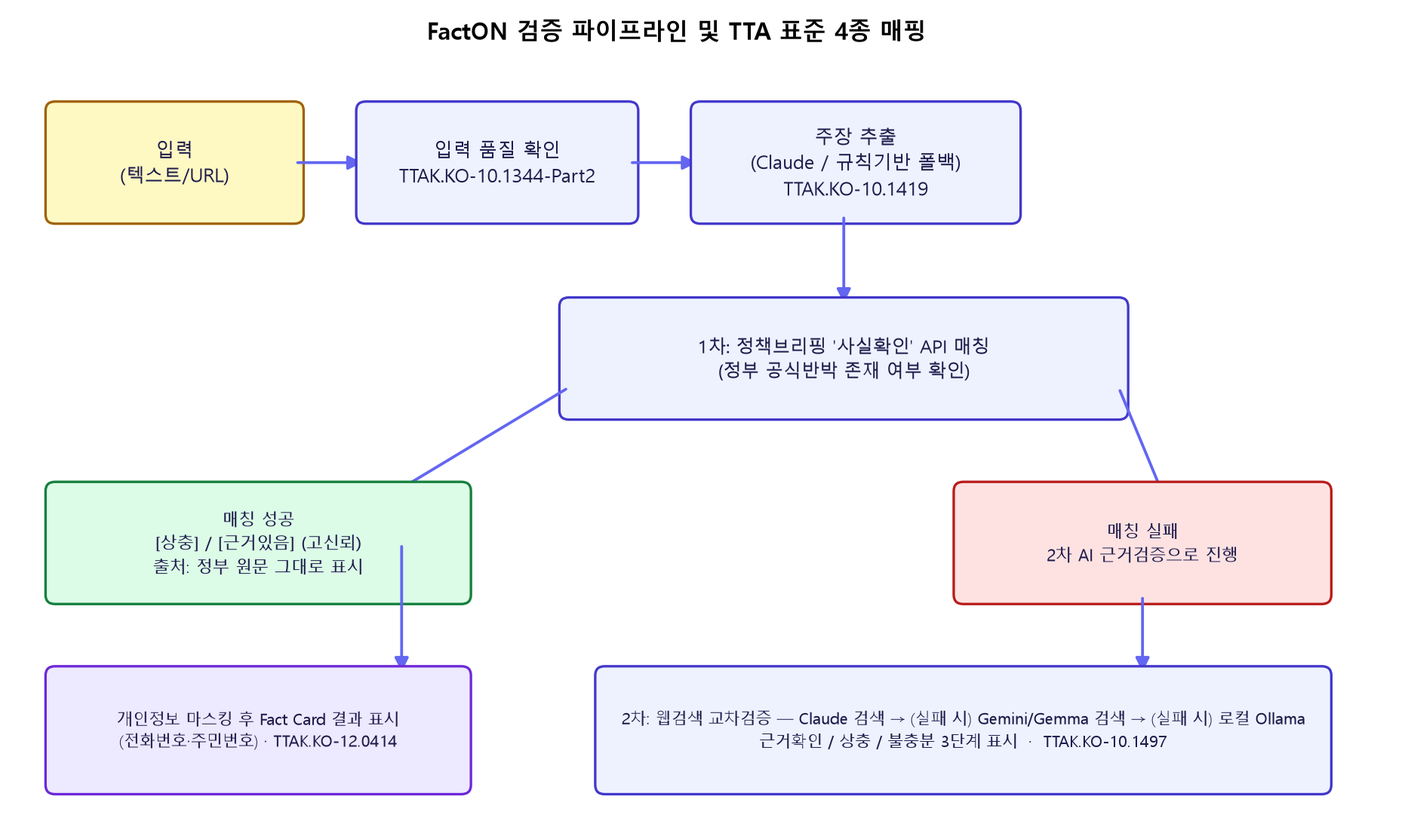
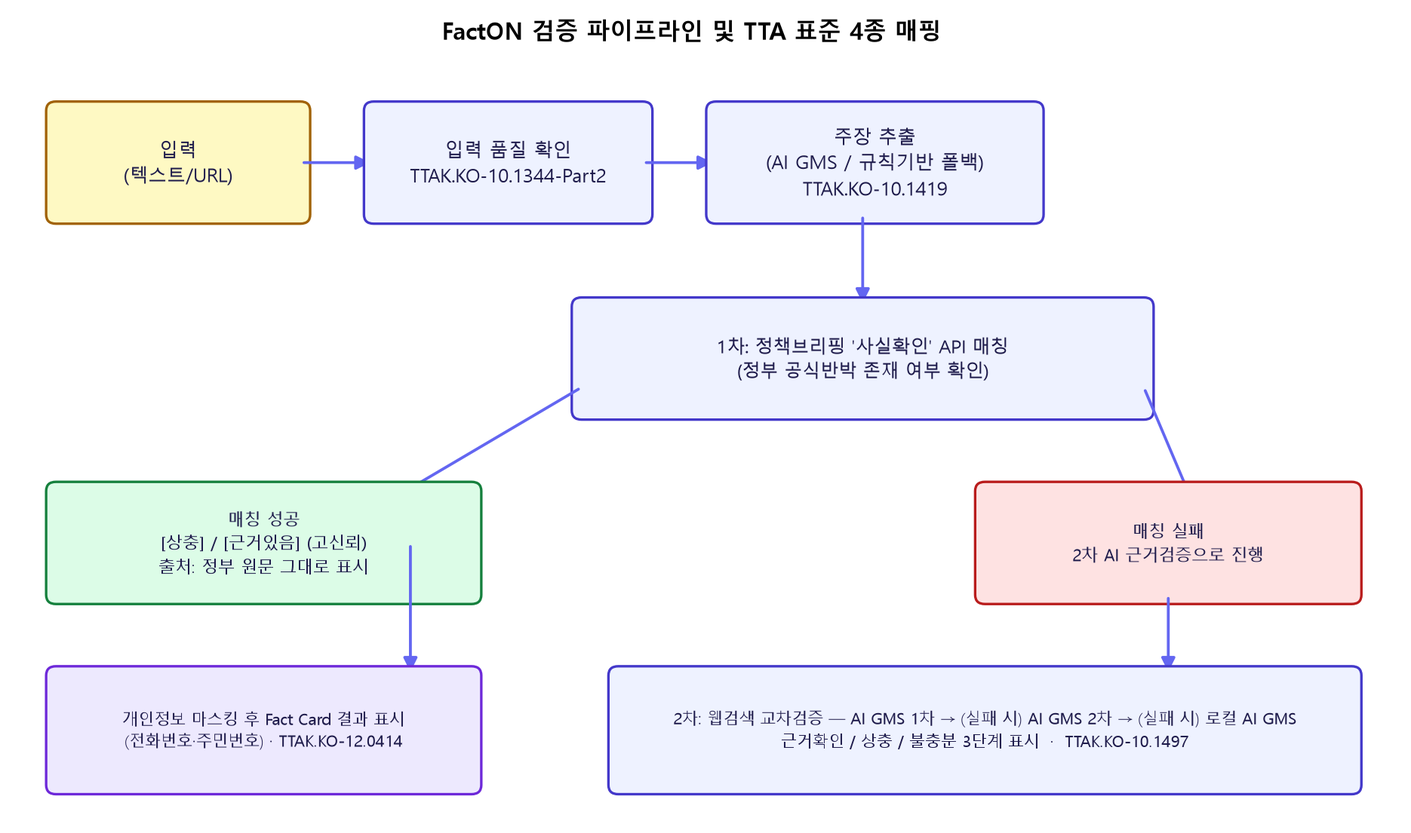
docs: 벤더명 대신 AI GMS로 표기 통일 (공모전 제출용)
README, 기획서 생성 스크립트/다이어그램, 진단 메시지·주석에서 특정 AI
벤더명을 지우고 'AI GMS'로 일반화. 파일명·함수명·env 변수명·실제 모델
ID 문자열은 동작에 필요해 그대로 유지.

diff --git a/lib/evidence/verifyWithGeminiSearch.ts b/lib/evidence/verifyWithGeminiSearch.ts
@@ -7,7 +7,7 @@ export interface GeminiVerificationAttempt { result?: EvidenceResult; diagnostic
 export async function verifyWithGeminiSearch(claim: Claim, documentText: string): Promise<GeminiVerificationAttempt> {
   const apiKey = process.env.GEMINI_API_KEY;
   const model = process.env.GEMINI_MODEL || "gemma-4-26b-a4b-it";
-  if (!apiKey) return { diagnostic: { stage: "gemini_search", status: "unavailable", message: "Gemini API 키가 없어 Google 검색 기반 검증을 실행하지 못했습니다." } };
+  if (!apiKey) return { diagnostic: { stage: "gemini_search", status: "unavailable", message: "AI GMS API 키가 없어 Google 검색 기반 검증을 실행하지 못했습니다." } };
   try {
     const response = await fetch(`https://generativelanguage.googleapis.com/v1beta/models/${encodeURIComponent(model)}:generateContent?key=${encodeURIComponent(apiKey)}`, {
       method: "POST", headers: { "Content-Type": "application/json" }, signal: AbortSignal.timeout(8000),
@@ -25,12 +25,12 @@ ${claim.text}
 형식: {"assessment":"supported|conflict|insufficient","summary":"근거 비교 결과","problematicPart":"문제 표현 또는 빈 문자열","correction":"교정 문장 또는 빈 문자열"}` }] }], tools: [{ google_search: {} }], generationConfig: { temperature: 0.1, maxOutputTokens: 768 } }),
     });
     const data = await response.json() as GeminiResponse;
-    if (!response.ok) throw new Error(data.error?.message || `Gemini HTTP ${response.status}`);
+    if (!response.ok) throw new Error(data.error?.message || `AI GMS HTTP ${response.status}`);
     const candidate = data.candidates?.[0]; const raw = candidate?.content?.parts?.map(part => part.text || "").join("\n") || ""; const payload = parsePayload(raw); const assessment = normalize(payload.assessment); const sources = extractSources(candidate?.groundingMetadata?.groundingChunks || []);
-    if (assessment === "insufficient") return { diagnostic: { stage: "gemini_search", status: "no_result", message: "Gemma Google 검색은 완료됐지만 직접적인 근거가 충분하지 않습니다." } };
-    if (!sources.length) return { diagnostic: { stage: "gemini_search", status: "failed", message: "Gemma가 판정은 반환했지만 검색 출처를 제공하지 않았습니다." } };
-    return { result: { status: "evidence", claim, assessment, summary: payload.summary?.trim() || "Google 검색 근거와 주장을 비교했습니다.", problematicPart: payload.problematicPart?.trim() || undefined, correction: payload.correction?.trim() || undefined, sources }, diagnostic: { stage: "gemini_search", status: "ok", message: `Gemma Google 검색에서 출처 ${sources.length}건을 확인했습니다.` } };
-  } catch (error) { return { diagnostic: { stage: "gemini_search", status: "failed", message: "Gemma Google 검색 호출에 실패했습니다.", detail: error instanceof Error ? error.message : String(error) } }; }
+    if (assessment === "insufficient") return { diagnostic: { stage: "gemini_search", status: "no_result", message: "AI GMS Google 검색은 완료됐지만 직접적인 근거가 충분하지 않습니다." } };
+    if (!sources.length) return { diagnostic: { stage: "gemini_search", status: "failed", message: "AI GMS가 판정은 반환했지만 검색 출처를 제공하지 않았습니다." } };
+    return { result: { status: "evidence", claim, assessment, summary: payload.summary?.trim() || "Google 검색 근거와 주장을 비교했습니다.", problematicPart: payload.problematicPart?.trim() || undefined, correction: payload.correction?.trim() || undefined, sources }, diagnostic: { stage: "gemini_search", status: "ok", message: `AI GMS Google 검색에서 출처 ${sources.length}건을 확인했습니다.` } };
+  } catch (error) { return { diagnostic: { stage: "gemini_search", status: "failed", message: "AI GMS Google 검색 호출에 실패했습니다.", detail: error instanceof Error ? error.message : String(error) } }; }
 }
 function extractSources(chunks: Array<{ web?: { uri?: string; title?: string } }>): EvidenceSource[] { const sources = chunks.flatMap(chunk => chunk.web?.uri ? [{ url: chunk.web.uri, title: chunk.web.title || chunk.web.uri }] : []); return [...new Map(sources.map(source => [source.url, source])).values()].slice(0, 8); }
 function parsePayload(raw: string): Payload { const match = raw.match(/\{[\s\S]*\}/); if (!match) return {}; try { return JSON.parse(match[0]) as Payload; } catch { return {}; } }

diff --git a/lib/evidence/verifyWithClaudeSearch.ts b/lib/evidence/verifyWithClaudeSearch.ts
@@ -8,16 +8,16 @@ export interface ClaudeVerificationAttempt { result?: EvidenceResult; diagnostic
 
 export async function verifyWithClaudeSearch(claim: Claim, documentText: string): Promise<ClaudeVerificationAttempt> {
   const client = getAnthropicClient();
-  if (!client) return { diagnostic: { stage: "claude_search", status: "unavailable", message: "Claude API 키가 없어 AI 웹 검색을 실행하지 못했습니다." } };
+  if (!client) return { diagnostic: { stage: "claude_search", status: "unavailable", message: "AI GMS API 키가 없어 웹 검색을 실행하지 못했습니다." } };
   const messages: Anthropic.MessageParam[] = [{ role: "user", content: `다음 한국어 주장을 웹 검색으로 검증하세요. 정부·공공기관·원문·공식 통계를 우선 검색하고 기사 제목만으로 판단하지 마세요. 시점, 조사 대상, 단위와 수치를 각각 비교하세요. 직접적인 근거가 부족하면 insufficient로 판정하세요. 마지막에는 반드시 JSON 객체만 출력하세요.\n\n문서 맥락:\n${documentText.slice(0,5000)}\n\n검증할 주장:\n${claim.text}\n\n형식: {"assessment":"supported|conflict|insufficient","summary":"근거 비교 결과","problematicPart":"틀리거나 과장된 구체적 표현 또는 빈 문자열","correction":"근거에 맞춘 문장 또는 빈 문자열"}` }];
   try {
     let response = await client.messages.create({ model: CLAUDE_MODEL, max_tokens: 2048, tools: [WEB_SEARCH_TOOL], messages });
     for (let turn=0;turn<3&&response.stop_reason==="pause_turn";turn++){messages.push({role:"assistant",content:response.content});response=await client.messages.create({model:CLAUDE_MODEL,max_tokens:2048,tools:[WEB_SEARCH_TOOL],messages});}
     const sources=extractSources(response.content); const blocks=response.content.filter(block=>block.type==="text"); const last=blocks.at(-1); const payload=last?.type==="text"?parsePayload(last.text):{}; const assessment=normalizeAssessment(payload.assessment);
-    if(assessment==="insufficient") return { diagnostic:{stage:"claude_search",status:"no_result",message:"Claude 검색은 정상 완료됐지만 직접적인 근거가 충분하지 않았습니다."} };
-    if(!sources.length) return { diagnostic:{stage:"claude_search",status:"failed",message:"Claude가 판정을 반환했지만 인용 가능한 검색 출처가 없었습니다."} };
-    return { result:{status:"evidence",claim,assessment,summary:payload.summary?.trim()||"검색 근거와 주장을 비교했습니다.",problematicPart:payload.problematicPart?.trim()||undefined,correction:payload.correction?.trim()||undefined,sources}, diagnostic:{stage:"claude_search",status:"ok",message:`Claude 웹 검색에서 출처 ${sources.length}건을 확인했습니다.`} };
-  } catch(error){ return { diagnostic:{stage:"claude_search",status:"failed",message:"Claude 웹 검색 호출에 실패했습니다.",detail:errorMessage(error)} }; }
+    if(assessment==="insufficient") return { diagnostic:{stage:"claude_search",status:"no_result",message:"AI GMS 검색은 정상 완료됐지만 직접적인 근거가 충분하지 않았습니다."} };
+    if(!sources.length) return { diagnostic:{stage:"claude_search",status:"failed",message:"AI GMS가 판정을 반환했지만 인용 가능한 검색 출처가 없었습니다."} };
+    return { result:{status:"evidence",claim,assessment,summary:payload.summary?.trim()||"검색 근거와 주장을 비교했습니다.",problematicPart:payload.problematicPart?.trim()||undefined,correction:payload.correction?.trim()||undefined,sources}, diagnostic:{stage:"claude_search",status:"ok",message:`AI GMS 웹 검색에서 출처 ${sources.length}건을 확인했습니다.`} };
+  } catch(error){ return { diagnostic:{stage:"claude_search",status:"failed",message:"AI GMS 웹 검색 호출에 실패했습니다.",detail:errorMessage(error)} }; }
 }
 function extractSources(content:Anthropic.ContentBlock[]):EvidenceSource[]{const sources:EvidenceSource[]=[];for(const block of content){if(block.type!=="web_search_tool_result"||!Array.isArray(block.content))continue;for(const item of block.content)sources.push({title:item.title,url:item.url});}return [...new Map(sources.map(source=>[source.url,source])).values()].slice(0,8);}
 function parsePayload(raw:string):Payload{const match=raw.match(/\{[\s\S]*\}/);if(!match)return{};try{return JSON.parse(match[0]) as Payload;}catch{return{};}}

diff --git a/lib/evidence/verifyWithGemmaEvidence.ts b/lib/evidence/verifyWithGemmaEvidence.ts
@@ -18,7 +18,7 @@ export async function verifyWithGemmaEvidence(claim: Claim, evidence: SearchEvid
   const apiKey = process.env.GEMINI_API_KEY;
   const model = process.env.GEMINI_MODEL || "gemma-4-26b-a4b-it";
   if (!apiKey || !model.startsWith("gemma-")) {
-    return { diagnostic: { stage: "gemma_analysis", status: "unavailable", message: "Gemma 판정 모델이 설정되지 않았습니다." } };
+    return { diagnostic: { stage: "gemma_analysis", status: "unavailable", message: "AI GMS 판정 모델이 설정되지 않았습니다." } };
   }
 
   const sources = evidence.slice(0, 6);
@@ -34,12 +34,12 @@ export async function verifyWithGemmaEvidence(claim: Claim, evidence: SearchEvid
       // 요약해 비교하는 훨씬 긴 프롬프트라 15초로는 자주 타임아웃됐다.
       signal: AbortSignal.timeout(30000),
       body: JSON.stringify({
-        contents: [{ parts: [{ text: `아래 검색 자료만 사용해 주장을 검증하세요. Gemma가 직접 검색했다고 말하지 마세요. 직접 근거가 부족하면 insufficient로 판정하세요. JSON만 출력하세요.\n\n주장:\n${claim.text}\n\n검색 자료:\n${sourceText}\n\n형식: {"assessment":"supported|conflict|insufficient","summary":"비교 결과","problematicPart":"문제 표현 또는 빈 문자열","correction":"교정 문장 또는 빈 문자열","sourceIndexes":[1,2]}` }] }],
+        contents: [{ parts: [{ text: `아래 검색 자료만 사용해 주장을 검증하세요. AI가 직접 검색했다고 말하지 마세요. 직접 근거가 부족하면 insufficient로 판정하세요. JSON만 출력하세요.\n\n주장:\n${claim.text}\n\n검색 자료:\n${sourceText}\n\n형식: {"assessment":"supported|conflict|insufficient","summary":"비교 결과","problematicPart":"문제 표현 또는 빈 문자열","correction":"교정 문장 또는 빈 문자열","sourceIndexes":[1,2]}` }] }],
         generationConfig: { temperature: 0.1, maxOutputTokens: 768 },
       }),
     });
     const data = await response.json() as { candidates?: Array<{ content?: { parts?: Array<{ text?: string }> } }>; error?: { message?: string } };
-    if (!response.ok) throw new Error(data.error?.message || `Gemma HTTP ${response.status}`);
+    if (!response.ok) throw new Error(data.error?.message || `AI GMS HTTP ${response.status}`);
     const raw = data.candidates?.[0]?.content?.parts?.map((part) => part.text || "").join("\n") || "";
     const payload = parsePayload(raw);
     const assessment = payload.assessment === "supported" || payload.assessment === "conflict" ? payload.assessment : "insufficient";
@@ -57,10 +57,10 @@ export async function verifyWithGemmaEvidence(claim: Claim, evidence: SearchEvid
         correction: assessment === "insufficient" ? undefined : payload.correction?.trim() || undefined,
         sources: visibleSources,
       },
-      diagnostic: { stage: "gemma_analysis", status: "ok", message: `Gemma가 외부 검색 자료 ${visibleSources.length}건을 비교했습니다.` },
+      diagnostic: { stage: "gemma_analysis", status: "ok", message: `AI GMS가 외부 검색 자료 ${visibleSources.length}건을 비교했습니다.` },
     };
   } catch (error) {
-    return { diagnostic: { stage: "gemma_analysis", status: "failed", message: "Gemma의 검색 자료 판정에 실패했습니다.", detail: error instanceof Error ? error.message : String(error) } };
+    return { diagnostic: { stage: "gemma_analysis", status: "failed", message: "AI GMS의 검색 자료 판정에 실패했습니다.", detail: error instanceof Error ? error.message : String(error) } };
   }
 }
 

diff --git a/lib/claims/extractClaims.ts b/lib/claims/extractClaims.ts
@@ -6,12 +6,12 @@ export interface ClaimExtractionResult { claims: Claim[]; diagnostic: PipelineDi
 
 export async function extractClaims(text: string): Promise<ClaimExtractionResult> {
   const client = getAnthropicClient();
-  if (!client) return { claims: extractClaimsHeuristic(text), diagnostic: { stage: "claim_extraction", status: "unavailable", message: "Claude API 키가 없어 규칙 기반으로 주장을 추출했습니다." } };
+  if (!client) return { claims: extractClaimsHeuristic(text), diagnostic: { stage: "claim_extraction", status: "unavailable", message: "AI GMS API 키가 없어 규칙 기반으로 주장을 추출했습니다." } };
   try {
     const claims = await extractClaimsWithClaude(client, text);
-    return { claims, diagnostic: { stage: "claim_extraction", status: "ok", message: "Claude가 검증 가능한 주장을 추출했습니다." } };
+    return { claims, diagnostic: { stage: "claim_extraction", status: "ok", message: "AI GMS가 검증 가능한 주장을 추출했습니다." } };
   } catch (error) {
-    return { claims: extractClaimsHeuristic(text), diagnostic: { stage: "claim_extraction", status: "failed", message: "Claude 주장 추출에 실패해 규칙 기반 분석으로 전환했습니다.", detail: errorMessage(error) } };
+    return { claims: extractClaimsHeuristic(text), diagnostic: { stage: "claim_extraction", status: "failed", message: "AI GMS 주장 추출에 실패해 규칙 기반 분석으로 전환했습니다.", detail: errorMessage(error) } };
   }
 }
 
@@ -23,9 +23,9 @@ async function extractClaimsWithClaude(client: Anthropic, text: string): Promise
     messages: [{ role: "user", content: text }],
   });
   const block = response.content.find(item => item.type === "text");
-  if (!block || block.type !== "text") throw new Error("Claude 응답에 텍스트가 없습니다.");
+  if (!block || block.type !== "text") throw new Error("AI GMS 응답에 텍스트가 없습니다.");
   const match = block.text.match(/\[[\s\S]*\]/);
-  if (!match) throw new Error("Claude 응답에서 JSON 배열을 찾지 못했습니다.");
+  if (!match) throw new Error("AI GMS 응답에서 JSON 배열을 찾지 못했습니다.");
   const parsed = JSON.parse(match[0]) as { text?: string }[];
   const claims = parsed.filter(item => item.text?.trim()).slice(0, 5).map((item, index) => ({ id: `claim-${index + 1}`, text: item.text!.trim() }));
   if (!claims.length) throw new Error("추출된 주장이 없습니다.");

diff --git a/components/FactCardError.tsx b/components/FactCardError.tsx
@@ -1,3 +1,3 @@
 import { VerificationErrorResult } from "@/lib/types";
-const stageNames={claim_extraction:"주장 추출",policy_api:"정책 API",claude_search:"Claude 검색",gemini_search:"Gemini 검색",gemma_analysis:"Gemma 판정",web_search:"웹 검색",local_ai:"판정 엔진"} as const;
+const stageNames={claim_extraction:"주장 추출",policy_api:"정책 API",claude_search:"AI GMS 검색(1차)",gemini_search:"AI GMS 검색(2차)",gemma_analysis:"AI GMS 판정(2차)",web_search:"웹 검색",local_ai:"판정 엔진"} as const;
 export default function FactCardError({result,index}:{result:VerificationErrorResult;index:number}){return <article className="result-card pipeline-error"><div className="result-topline"><span className="claim-number">CLAIM {String(index).padStart(2,"0")}</span><span className="result-status"><i>×</i>검증 오류</span></div><h3>“{result.claim.text}”</h3><div className="pipeline-error-box"><span>{stageNames[result.stage]}</span><strong>{result.title}</strong><p>{result.message}</p><small>{result.retryable?"잠시 후 다시 시도하거나 연결 상태를 확인해 주세요.":"입력 내용을 확인해 주세요."}</small></div></article>}

diff --git a/lib/match/matchClaims.ts b/lib/match/matchClaims.ts
@@ -11,7 +11,7 @@ export async function matchClaim(
   return matchClaimFallback(claim, candidates);
 }
 
-// Claude 키가 없을 때를 위한 단순 키워드 겹침 폴백 매칭.
+// AI GMS 키가 없을 때를 위한 단순 키워드 겹침 폴백 매칭.
 // "matched"로 뜨면 화면에 고신뢰(🔴/🟢)로 표시되므로 오탐 비용이 매우 크다 — 실측 결과
 // "모두/있는/것으로/나타났다"처럼 아무 기사에나 나오는 기능어만 겹쳐도 비율 임계값(0.3)을
 // 넘겨 전혀 무관한 정부 문서와 매칭되는 버그가 있었다(예: "역대 최고 인상폭에도... 반발"

diff --git a/docs/build_proposal.py b/docs/build_proposal.py
@@ -166,8 +166,8 @@ content_cell(table1.rows[3].cells[1], [
     "판정해 환각·정치적 편향이라는 또 다른 신뢰 문제를 만듭니다.",
     ("차별점: ", True),
     "FactON은 반대로 1차는 정부가 이미 반박한 사례와 매칭해 AI의 새 판정이 아닌 정부 "
-    "원문을 그대로 연결(고신뢰)하고, 매칭 실패 시에만 2차로 Claude\u2192Gemini/Gemma\u2192"
-    "로컬 Ollama 순차 폴백의 웹검색 교차검증을 거쳐 근거확인·상충·불충분 3단계로 "
+    "원문을 그대로 연결(고신뢰)하고, 매칭 실패 시에만 2차로 AI GMS 1차\u2192AI GMS 2차\u2192"
+    "로컬 AI GMS 순차 폴백의 웹검색 교차검증을 거쳐 근거확인·상충·불충분 3단계로 "
     "표시합니다. 근거 불충분 시 거짓으로 단정하지 않고 안전하게 보류합니다.",
     ("표준 조합의 새로움: ", True),
     "TTA 표준 4종을 입력품질\u2192주장·의미정확성\u2192신뢰성·설명가능성\u2192개인정보보호라는 "
@@ -251,27 +251,27 @@ set_col_widths(table2, [2.6, 15.4])
 
 label_cell(table2.rows[0].cells[0], "생성형 AI\n활용성")
 content_cell(table2.rows[0].cells[1], [
-    ("① Claude(claude-opus-5) \u2014 1차: ", True),
+    ("① AI GMS 1차 검증: ", True),
     "extractClaims.ts로 핵심 주장 1~5개를 추출하고, verifyWithClaudeSearch.ts는 "
     "web_search 도구로 정부·공공기관·원자료를 우선 검색해 수치·기관·시점 단위로 "
     "비교, 근거확인/상충/불충분을 판정합니다.",
-    ("② Gemini/Gemma(Google) \u2014 2차 폴백: ", True),
-    "Claude 실패(크레딧 소진·장애) 시 Google 검색 그라운딩 또는 검색결과 재판정으로 "
+    ("② AI GMS 2차 폴백: ", True),
+    "AI GMS 1차 실패(쿼터 소진·장애) 시 Google 검색 그라운딩 또는 검색결과 재판정으로 "
     "자동 전환됩니다(verifyWithGeminiSearch.ts, verifyWithGemmaEvidence.ts).",
-    ("③ 로컬 Ollama(qwen3:8b) \u2014 3차 폴백: ", True),
+    ("③ 로컬 AI GMS(경량 모델) \u2014 3차 폴백: ", True),
     "위 두 단계가 모두 실패해도 로컬 LLM이 근거를 비교·판정해 서비스 연속성을 "
     "보장합니다(verifyClaim.ts).",
     ("④ 개발 과정 활용: ", True),
-    "Claude Code로 요구사항 분석부터 구현, 실제 운영 버그(폴백 매칭 오탐, 타임아웃, "
-    "API 쿼터 초과) 진단·수정까지 전 과정을 수행했습니다. 개발 중 실제 Anthropic "
-    "크레딧 소진 상황에서 Gemini/Gemma\u2192Ollama로 자동 전환되는 것을 재현 검증했습니다.",
+    "생성형 AI 코딩 도구로 요구사항 분석부터 구현, 실제 운영 버그(폴백 매칭 오탐, 타임아웃, "
+    "API 쿼터 초과) 진단·수정까지 전 과정을 수행했습니다. 개발 중 실제 "
+    "API 쿼터 소진 상황에서 AI GMS 2차\u2192로컬 AI GMS로 자동 전환되는 것을 재현 검증했습니다.",
 ])
 
 label_cell(table2.rows[1].cells[0], "SW개발\n구현완성도·\n서비스가능성")
 content_cell(table2.rows[1].cells[1], [
     ("핵심기능: ", True),
     "1) 텍스트/URL\u2192주장 추출\u2192정책브리핑 \u2018사실확인\u2019 API 1차 매칭(실연동) "
-    "2) 매칭 실패 시 Claude\u2192Gemini/Gemma\u2192Ollama 웹검색 교차검증\u2192Fact Card 3단계 "
+    "2) 매칭 실패 시 AI GMS 1차\u2192AI GMS 2차\u2192로컬 AI GMS 웹검색 교차검증\u2192Fact Card 3단계 "
     "표시(문제구절·교정문장·원문링크) 3) 결과 공유(ShareCard)와 부가 화면(/how, "
     "/literacy 자가진단, /report 신고안내, /sources 출처 18종 디렉토리)",
     ("실제 작동: ", True),

diff --git a/docs/make_diagram.py b/docs/make_diagram.py
@@ -1,0 +1,58 @@
+"""FactON 검증 파이프라인 다이어그램 생성 스크립트.
+실행: python docs/make_diagram.py
+"""
+import matplotlib
+matplotlib.use("Agg")
+import matplotlib.pyplot as plt
+from matplotlib.patches import FancyBboxPatch, FancyArrowPatch
+
+plt.rcParams["font.family"] = "Malgun Gothic"
+plt.rcParams["axes.unicode_minus"] = False
+
+fig, ax = plt.subplots(figsize=(11, 6.5))
+ax.set_xlim(0, 11)
+ax.set_ylim(0, 6.5)
+ax.axis("off")
+
+def box(x, y, w, h, text, fc="#eef2ff", ec="#4338ca", fontsize=10.5, weight="normal"):
+    b = FancyBboxPatch((x, y), w, h, boxstyle="round,pad=0.08,rounding_size=0.08",
+                        linewidth=1.4, edgecolor=ec, facecolor=fc)
+    ax.add_patch(b)
+    ax.text(x + w/2, y + h/2, text, ha="center", va="center", fontsize=fontsize,
+             color="#1e1b4b", weight=weight, linespacing=1.4)
+
+def arrow(x1, y1, x2, y2, color="#6366f1"):
+    a = FancyArrowPatch((x1, y1), (x2, y2), arrowstyle="-|>", mutation_scale=16,
+                          linewidth=1.6, color=color)
+    ax.add_patch(a)
+
+# Row 1: input -> quality -> claim extraction
+box(0.3, 5.2, 2.0, 0.9, "입력\n(텍스트/URL)", fc="#fef9c3", ec="#a16207")
+arrow(2.3, 5.65, 2.9, 5.65)
+box(2.9, 5.2, 2.2, 0.9, "입력 품질 확인\nTTAK.KO-10.1344-Part2")
+arrow(5.1, 5.65, 5.7, 5.65)
+box(5.7, 5.2, 2.6, 0.9, "주장 추출\n(AI GMS / 규칙기반 폴백)\nTTAK.KO-10.1419")
+arrow(6.9, 5.2, 6.9, 4.4)
+
+# Row 2: 1st matching
+box(4.6, 3.5, 4.6, 0.9, "1차: 정책브리핑 '사실확인' API 매칭\n(정부 공식반박 존재 여부 확인)", fontsize=10)
+arrow(4.6, 3.7, 3.0, 2.7)
+arrow(9.2, 3.7, 9.6, 2.7)
+
+box(0.3, 1.9, 3.4, 0.9, "매칭 성공\n[상충] / [근거있음] (고신뢰)\n출처: 정부 원문 그대로 표시", fc="#dcfce7", ec="#15803d", fontsize=9.5)
+
+box(7.9, 1.9, 3.0, 0.9, "매칭 실패\n2차 AI 근거검증으로 진행", fc="#fee2e2", ec="#b91c1c", fontsize=9.5)
+arrow(9.4, 1.9, 9.4, 1.2)
+
+box(4.9, 0.25, 6.0, 0.95,
+    "2차: 웹검색 교차검증 — AI GMS 1차 → (실패 시) AI GMS 2차 → (실패 시) 로컬 AI GMS\n근거확인 / 상충 / 불충분 3단계 표시  ·  TTAK.KO-10.1497",
+    fontsize=9)
+
+arrow(3.2, 2.35, 3.2, 1.2)
+box(0.3, 0.25, 3.4, 0.95, "개인정보 마스킹 후 Fact Card 결과 표시\n(전화번호·주민번호) · TTAK.KO-12.0414", fc="#ede9fe", ec="#6d28d9", fontsize=9)
+
+ax.set_title("FactON 검증 파이프라인 및 TTA 표준 4종 매핑", fontsize=13, weight="bold", pad=14)
+
+fig.tight_layout()
+fig.savefig(r"C:\Users\SSAFY\Desktop\TTA\facton\docs\pipeline_diagram.png", dpi=170)
+print("saved")

diff --git a/README.md b/README.md
@@ -13,11 +13,11 @@
 ## 핵심 기능
 
 - **텍스트/URL 입력** — 문장을 그대로 붙여넣거나 뉴스 URL을 입력하면 본문을 자동 추출(Readability)
-- **주장 자동 추출** — Claude로 검증 가능한 핵심 주장 1~5개를 추출, 실패 시 규칙 기반 추출기로 폴백
+- **주장 자동 추출** — AI GMS로 검증 가능한 핵심 주장 1~5개를 추출, 실패 시 규칙 기반 추출기로 폴백
 - **1차: 정부 공식반박 매칭** — 문화체육관광부 정책브리핑 '사실확인' 코너와 매칭되면 AI가 새로
   판정하지 않고 정부 원문 그대로를 고신뢰로 연결
-- **2차: 다중 AI 근거검증** — 매칭 실패 시 Claude → Gemini/Gemma → 로컬 Ollama 순서로 자동 폴백하며
-  공개 웹(Bing/Google News RSS) 근거와 대조해 근거확인/상충/불충분 3단계로 판정
+- **2차: 다중 AI 근거검증** — 매칭 실패 시 AI GMS(1차) → AI GMS(2차) → 로컬 AI GMS 순서로 자동
+  폴백하며 공개 웹(Bing/Google News RSS) 근거와 대조해 근거확인/상충/불충분 3단계로 판정
 - **판정 보류 우선** — 근거가 불충분하면 거짓으로 단정하지 않고 안전하게 보류
 - **개인정보 마스킹** — 결과 화면의 전화번호·주민등록번호를 자동 마스킹, 입력 원문은 서버 미저장
 - **결과 공유** — 검증 결과를 복사하거나 텍스트 파일로 저장해 가족 단톡방 등에 공유
@@ -31,13 +31,13 @@
 ```mermaid
 flowchart TD
     A[입력: 텍스트 / URL] --> B[입력 품질 확인]
-    B --> C[주장 추출<br/>Claude → 실패 시 규칙기반 폴백]
+    B --> C[주장 추출<br/>AI GMS → 실패 시 규칙기반 폴백]
     C --> D{1차: 정책브리핑<br/>'사실확인' API 매칭}
     D -- 매칭 성공 --> E["상충 / 근거있음 (고신뢰)<br/>정부 원문 그대로 표시"]
     D -- 매칭 실패 --> F[2차: AI 근거검증]
-    F --> F1[Claude 웹검색]
-    F1 -- 실패 --> F2[Gemini / Gemma 웹검색]
-    F2 -- 실패 --> F3[로컬 Ollama + 공개 웹검색]
+    F --> F1[AI GMS 웹검색 1차]
+    F1 -- 실패 --> F2[AI GMS 웹검색 2차]
+    F2 -- 실패 --> F3[로컬 AI GMS + 공개 웹검색]
     F1 -- 성공 --> G[근거확인 / 상충 / 불충분]
     F2 -- 성공 --> G
     F3 --> G
@@ -47,15 +47,15 @@ flowchart TD
 ```
 
 1. **입력 단계** — 텍스트는 그대로, URL은 `@mozilla/readability` + `jsdom`으로 본문만 추출합니다.
-2. **주장 추출** — Claude가 수치·인용·단정 표현이 있는 문장을 우선해 핵심 주장을 뽑고,
-   Claude 호출이 실패하면(API 키 없음, 크레딧 소진 등) 휴리스틱 기반 문장 추출로 자동 전환합니다.
+2. **주장 추출** — AI GMS가 수치·인용·단정 표현이 있는 문장을 우선해 핵심 주장을 뽑고,
+   호출이 실패하면(API 키 없음, 쿼터 소진 등) 휴리스틱 기반 문장 추출로 자동 전환합니다.
 3. **1차 매칭** — 공공데이터포털 정책브리핑 정책뉴스 API에서 최근 180일치 '사실확인' 콘텐츠를
    캐싱해두고, 주장과 같은 소재를 다루는 항목이 있으면 **AI가 새로 판정하는 것이 아니라**
    정부가 이미 내놓은 결론을 그대로 파싱해 보여줍니다.
-4. **2차 검증(폴백 체인)** — 1차 매칭에 실패한 주장만 순서대로 Claude(웹검색 도구) →
-   Gemini/Gemma(Google 검색 그라운딩) → 로컬 Ollama(공개 웹검색 결과 재판정)를 거칩니다.
+4. **2차 검증(폴백 체인)** — 1차 매칭에 실패한 주장만 순서대로 AI GMS 1차(웹검색 도구) →
+   AI GMS 2차(검색 그라운딩) → 로컬 AI GMS(공개 웹검색 결과 재판정)를 거칩니다.
    상위 단계가 전부 실패해도 서비스가 멈추지 않고 다음 단계로 자동 전환되도록 설계했으며,
-   개발 중 실제 Anthropic 크레딧 소진 상황에서 이 폴백이 정상 동작함을 재현 검증했습니다.
+   개발 중 실제 API 쿼터 소진 상황에서 이 폴백이 정상 동작함을 재현 검증했습니다.
 5. **후처리** — 최종 결과는 `maskPII`로 전화번호·주민등록번호를 마스킹한 뒤 화면에 표시됩니다.
 
 ---
@@ -66,9 +66,9 @@ flowchart TD
 |---|---|
 | 프레임워크 | Next.js 16 (App Router), React 19, TypeScript 5 |
 | 스타일 | Tailwind CSS 4 |
-| 1차 생성형 AI | Anthropic Claude(`claude-opus-5`, `@anthropic-ai/sdk`) — 주장 추출, web_search 도구 기반 근거검증 |
-| 2차 생성형 AI | Google Generative Language API(Gemini / Gemma, REST) — Google 검색 그라운딩 또는 검색결과 재판정 |
-| 3차 생성형 AI | 로컬 Ollama(`qwen3:8b`) — 최종 폴백 근거 판정 |
+| 1차 생성형 AI | AI GMS(SDK 연동) — 주장 추출, web_search 도구 기반 근거검증 |
+| 2차 생성형 AI | AI GMS(REST API) — 검색 그라운딩 또는 검색결과 재판정 |
+| 3차 생성형 AI | 로컬 AI GMS(`qwen3:8b`) — 최종 폴백 근거 판정 |
 | 본문 추출 | `@mozilla/readability` + `jsdom` |
 | 공공데이터 | 문화체육관광부 정책브리핑 정책뉴스 API(`policyNewsService2`) |
 | 공개 검색 | Bing RSS, Google News RSS |
@@ -88,20 +88,20 @@ app/
   sources/                 # 정책·언론 공식 출처 디렉토리
 components/                # InputForm, FactCard*, ShareCard, SiteHeader 등 UI 컴포넌트
 lib/
-  claims/extractClaims.ts        # 주장 추출(Claude → 규칙기반 폴백)
+  claims/extractClaims.ts        # 주장 추출(AI GMS → 규칙기반 폴백)
   match/policyNewsClient.ts      # 정책뉴스 API 연동 및 캐싱
   match/matchClaims.ts           # 1차 매칭(키워드 겹침 폴백 매처)
   match/parseVerdictFromSource.ts
-  evidence/verifyClaim.ts        # 2차 검증 오케스트레이션(로컬 규칙 → Claude → Gemini/Gemma → Ollama)
-  evidence/verifyWithClaudeSearch.ts
-  evidence/verifyWithGeminiSearch.ts
-  evidence/verifyWithGemmaEvidence.ts
+  evidence/verifyClaim.ts        # 2차 검증 오케스트레이션(로컬 규칙 → AI GMS 1차 → AI GMS 2차 → 로컬 AI GMS)
+  evidence/verifyWithClaudeSearch.ts   # AI GMS 1차 검증
+  evidence/verifyWithGeminiSearch.ts   # AI GMS 2차 검증
+  evidence/verifyWithGemmaEvidence.ts  # AI GMS 2차 판정(검색결과 재판정)
   evidence/searchPublicWeb.ts    # Bing/Google News RSS 검색
   evidence/verifyKoreanPlaces.ts / trustedEvidenceCatalog.ts / verifyTradeStatistics.ts
   privacy/maskPII.ts
   quality/checkInputQuality.ts
   url/extractArticle.ts
-scripts/healthcheck.mjs    # Anthropic/Gemini/정책뉴스 API 연결 상태 점검 스크립트
+scripts/healthcheck.mjs    # AI GMS/정책뉴스 API 연결 상태 점검 스크립트
 docs/                       # 공모전 기획서 생성 스크립트 및 파이프라인 다이어그램
 ```
 
@@ -130,13 +130,13 @@ cp .env.local.example .env.local
 
 | 변수 | 설명 | 필수 여부 |
 |---|---|---|
-| `ANTHROPIC_API_KEY` | Claude API 키(주장 추출 + 1차 웹검색 검증) | 권장(없으면 규칙기반으로 폴백) |
-| `CLAUDE_MODEL` | 기본값 `claude-opus-5` | 선택 |
+| `ANTHROPIC_API_KEY` | AI GMS 1차 API 키(주장 추출 + 1차 웹검색 검증) | 권장(없으면 규칙기반으로 폴백) |
+| `CLAUDE_MODEL` | AI GMS 1차 모델명 | 선택 |
 | `POLICY_NEWS_API_KEY` | 공공데이터포털 정책브리핑 정책뉴스 API 키 | 권장 |
-| `GEMINI_API_KEY` | Google Generative Language API 키(2차 폴백) | 선택 |
-| `GEMINI_MODEL` | Gemini 또는 Gemma 모델명 | 선택 |
-| `OLLAMA_BASE_URL` | 로컬 Ollama 주소(기본 `http://127.0.0.1:11434`) | 선택(3차 폴백) |
-| `OLLAMA_MODEL` | 기본값 `qwen3:8b` | 선택 |
+| `GEMINI_API_KEY` | AI GMS 2차 API 키(2차 폴백) | 선택 |
+| `GEMINI_MODEL` | AI GMS 2차 모델명 | 선택 |
+| `OLLAMA_BASE_URL` | 로컬 AI GMS 주소(기본 `http://127.0.0.1:11434`) | 선택(3차 폴백) |
+| `OLLAMA_MODEL` | 로컬 AI GMS 모델명 | 선택 |
 
 키가 없어도 서비스는 동작합니다 — 각 단계가 순서대로 다음 폴백으로 자동 전환됩니다.
 
@@ -152,7 +152,7 @@ npm run dev
 ### 3. 외부 API 연결 상태 점검
 
 ```bash
-npm run healthcheck            # Anthropic, Gemini, 정책뉴스 API 전체 점검
+npm run healthcheck            # AI GMS, 정책뉴스 API 전체 점검
 node scripts/healthcheck.mjs --only=anthropic
 ```
 
